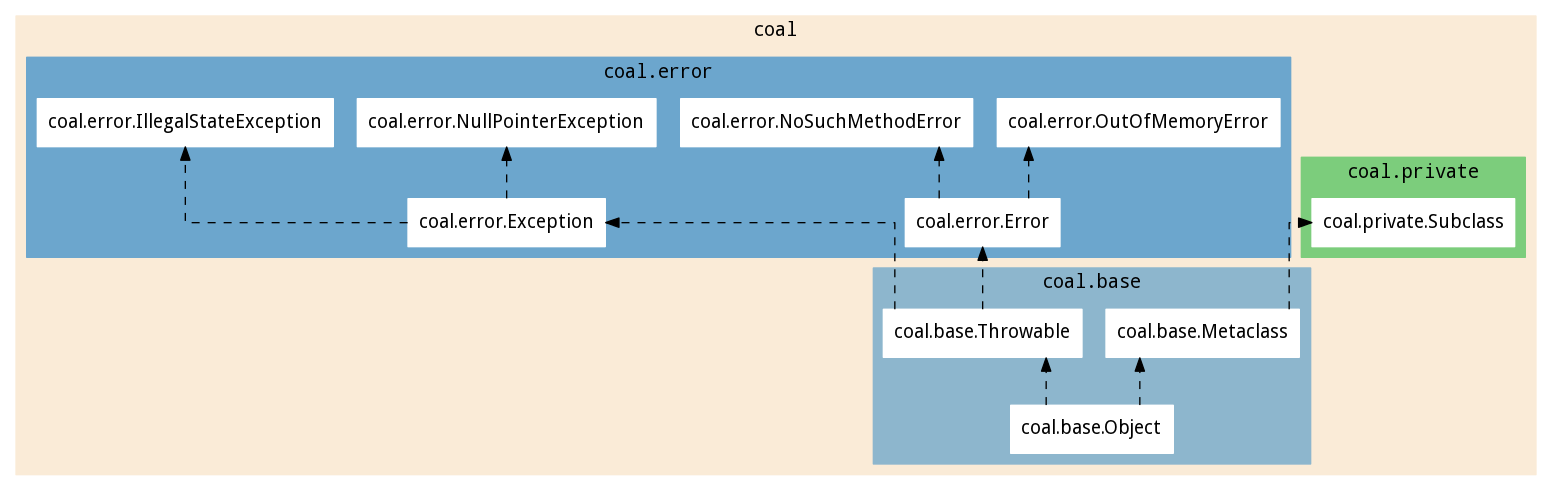
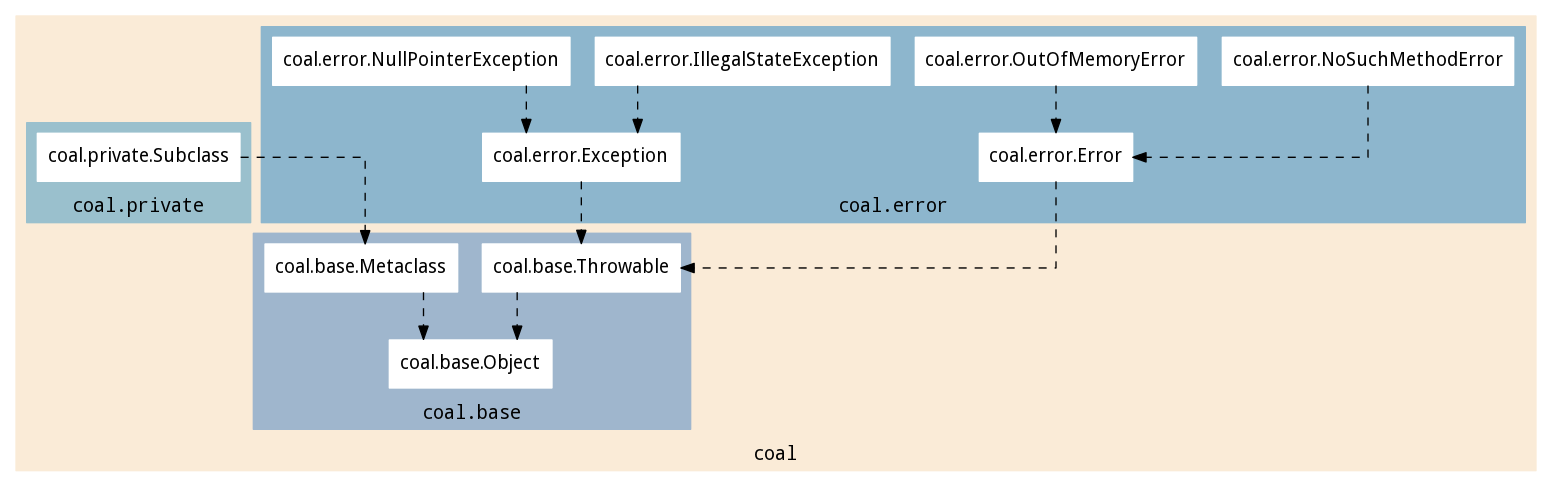
Added some minor comments to the Metaclass constructor. Also minor change to hierarchy.py, made each class point to the class it inherits from instead of the other way around. Also updated classes.png accordingly.

diff --git a/py-utils/hierarchy.py b/py-utils/hierarchy.py
@@ -105,10 +105,15 @@ class ClassTree (object):
 
                     subklasses = sorted(subklasses, self.cmp(self.counts))
 
-                    s += '\t\t"%s" -> { %s };\n' % (
-                        klass,
-                        ' '.join(['"%s"' % s for s in subklasses])
+                    s += '\t\t{ %s } -> "%s";\n' % (
+                        ' '.join(['"%s"' % s for s in subklasses]),
+                        klass
                     )
+
+                    # s += '\t\t"%s" -> { %s };\n' % (
+                    #     klass,
+                    #     ' '.join(['"%s"' % s for s in subklasses])
+                    # )
 
                     for subklass in subklasses:
                         self.hierarchy[klass].remove(subklass)
@@ -143,9 +148,14 @@ class ClassTree (object):
 
             subklasses = sorted(self.hierarchy[klass], self.cmp(self.counts))
             if subklasses:
-                s += '\t"%s" -> { %s };\n' % (
-                    klass,
-                    ' '.join(['"%s"' % s for s in subklasses])
+                # s += '\t"%s" -> { %s };\n' % (
+                #     klass,
+                #     ' '.join(['"%s"' % s for s in subklasses])
+                # )
+
+                s += '\t{ %s } -> "%s";\n' % (
+                    ' '.join(['"%s"' % s for s in subklasses]),
+                    klass
                 )
 
             if klass == 'coal.lang.object':

diff --git a/base/Object/Object.c b/base/Object/Object.c
@@ -66,10 +66,14 @@ var Metaclass_constructor (var _self, va_list * args) {
   self->super = va_arg(*args, class(Metaclass) *);
   self->size  = va_arg(*args, size_t);
 
+  /* copy every method pointer
+     from the old class*/
   memcpy((char *) self + offset,
 	 (char *) self->super + offset,
 	 coal_base_Object_getSize(self->super) - offset);
 
+  /* override the methods unless
+     INHERIT_METHOD was passed */
   OverrideMethod(self, args, cmp);
   OverrideMethod(self, args, constructor);
   OverrideMethod(self, args, destructor);
